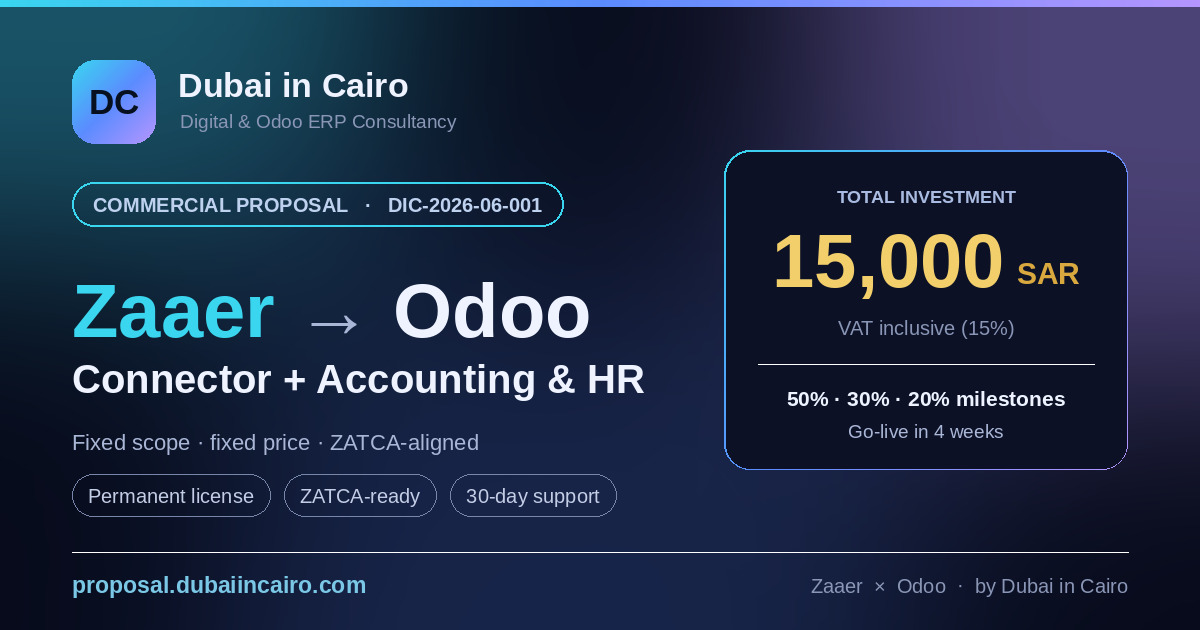
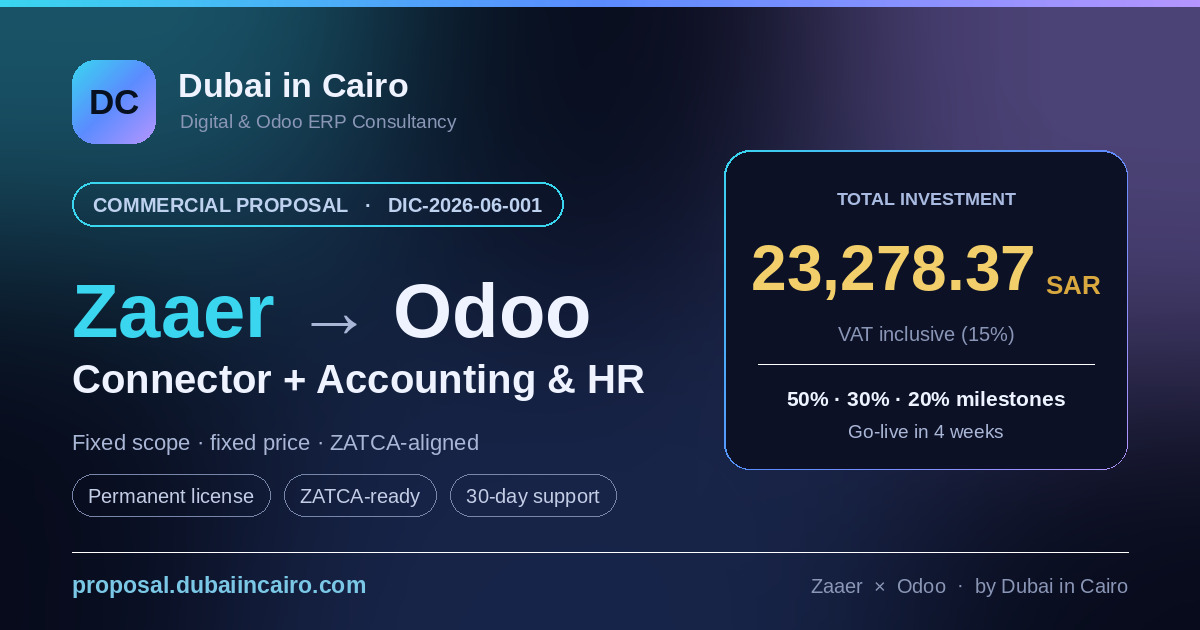
Update pricing: Odoo 15,778.37 + integration 7,500 = 23,278.37 SAR (VAT incl.)
- Restructure the price card into two line items: Odoo implementation &
  training (15,778.37) and Zaaer-Odoo integration for all branches (7,500.00).
- New VAT-inclusive total 23,278.37 SAR; net 20,242.06; VAT (15%) 3,036.31.
- Milestones 50/30/20 -> 11,639.19 / 6,983.51 / 4,655.67 (sum to total).
- Update hero summary, acceptance meta, meta description + OG/Twitter tags,
  and regenerate the social card with the new total.

https://claude.ai/code/session_013jWkQUzJEXRKSH2HXtxYeR

Changed region(s): [[0.6167, 0.3619, 0.925, 0.4825], [0.6783, 0.5127, 0.8633, 0.5429], [0.6783, 0.3016, 0.8633, 0.3317]]

diff --git a/index.html b/index.html
@@ -4,7 +4,7 @@
 <meta charset="utf-8">
 <meta name="viewport" content="width=device-width, initial-scale=1">
 <title>Proposal DIC-2026-06-001 — Dubai in Cairo</title>
-<meta name="description" id="m-desc" content="Commercial proposal DIC-2026-06-001 — Zaaer–Odoo Connector, ZATCA-aligned Accounting & HR implementation by Dubai in Cairo. Fixed scope, fixed price — 15,000 SAR (VAT inclusive).">
+<meta name="description" id="m-desc" content="Commercial proposal DIC-2026-06-001 — Zaaer–Odoo Connector, ZATCA-aligned Accounting & HR implementation by Dubai in Cairo. Fixed scope, fixed price — 23,278.37 SAR (VAT inclusive).">
 <meta name="theme-color" content="#070b1c">
 <link rel="canonical" href="https://proposal.dubaiincairo.com/">
 <link rel="icon" type="image/svg+xml" href="/favicon.svg">
@@ -13,16 +13,16 @@
 <meta property="og:locale" content="en_US">
 <meta property="og:url" content="https://proposal.dubaiincairo.com/">
 <meta property="og:title" id="m-ogtitle" content="Proposal DIC-2026-06-001 — Dubai in Cairo">
-<meta property="og:description" id="m-ogdesc" content="Zaaer–Odoo Connector, ZATCA-aligned Accounting & HR — fixed scope, fixed price, 15,000 SAR (VAT inclusive).">
+<meta property="og:description" id="m-ogdesc" content="Zaaer–Odoo Connector, ZATCA-aligned Accounting & HR — fixed scope, fixed price, 23,278.37 SAR (VAT inclusive).">
 <meta property="og:image" id="m-ogimg" content="https://proposal.dubaiincairo.com/og-image.jpg">
 <meta property="og:image:secure_url" id="m-ogimg2" content="https://proposal.dubaiincairo.com/og-image.jpg">
 <meta property="og:image:type" content="image/jpeg">
 <meta property="og:image:width" content="1200">
 <meta property="og:image:height" content="630">
-<meta property="og:image:alt" content="Dubai in Cairo — Proposal DIC-2026-06-001: Zaaer–Odoo Connector, Accounting & HR, 15,000 SAR VAT inclusive">
+<meta property="og:image:alt" content="Dubai in Cairo — Proposal DIC-2026-06-001: Zaaer–Odoo Connector, Accounting & HR, 23,278.37 SAR VAT inclusive">
 <meta name="twitter:card" content="summary_large_image">
 <meta name="twitter:title" id="m-twtitle" content="Proposal DIC-2026-06-001 — Dubai in Cairo">
-<meta name="twitter:description" id="m-twdesc" content="Zaaer–Odoo Connector, ZATCA-aligned Accounting & HR — fixed scope, fixed price, 15,000 SAR (VAT inclusive).">
+<meta name="twitter:description" id="m-twdesc" content="Zaaer–Odoo Connector, ZATCA-aligned Accounting & HR — fixed scope, fixed price, 23,278.37 SAR (VAT inclusive).">
 <meta name="twitter:image" id="m-twimg" content="https://proposal.dubaiincairo.com/og-image.jpg">
 <meta name="twitter:image:alt" content="Dubai in Cairo — Proposal DIC-2026-06-001">
 <style>
@@ -340,7 +340,7 @@ body.rv .milestones .ms.reveal:nth-child(3){transition-delay:.2s}
     <div class="srow"><span>Valid until</span><span class="v-valid">01 July 2026</span></div>
     <div class="srow"><span>Prepared for</span><span class="ar v-client">شركة أجنحة المشاعر المحدودة</span></div>
     <div class="srow"><span>Prepared by</span><span><span class="v-brandname">Dubai in Cairo</span> LLC</span></div>
-    <div class="invest"><span class="amt gold-text"><span class="v-total-num">15,000.00</span> <span class="v-cur">SAR</span></span><small>Fixed total<br>VAT inclusive</small></div>
+    <div class="invest"><span class="amt gold-text"><span class="v-total-num">23,278.37</span> <span class="v-cur">SAR</span></span><small>Fixed total<br>VAT inclusive</small></div>
   </aside>
 </div></header>
 
@@ -381,24 +381,26 @@ body.rv .milestones .ms.reveal:nth-child(3){transition-delay:.2s}
 </div></section>
 
 <section class="sec" id="pricing"><div class="wrap">
-  <div class="sec-head reveal"><div class="sec-eyebrow" id="f-price-eyebrow">Investment</div><h2 id="f-price-title">One fixed price. No surprises.</h2><p id="f-price-desc">A single, all-inclusive figure for the full scope above — payable across three simple milestones.</p></div>
+  <div class="sec-head reveal"><div class="sec-eyebrow" id="f-price-eyebrow">Investment</div><h2 id="f-price-title">One fixed price. No surprises.</h2><p id="f-price-desc">Odoo implementation &amp; training, plus the Zaaer–Odoo connector for all branches — one VAT-inclusive total, payable across three milestones.</p></div>
   <div class="price-zone">
     <div class="price-wrap reveal"><div class="price-card">
       <div class="label" id="f-price-totallabel">Total Investment</div>
-      <div class="big gold-text"><span class="v-total-num">15,000.00</span> <span class="v-cur" style="font-size:.42em;letter-spacing:0">SAR</span></div>
+      <div class="big gold-text"><span class="v-total-num">23,278.37</span> <span class="v-cur" style="font-size:.42em;letter-spacing:0">SAR</span></div>
       <div class="vatnote" id="f-price-vatnote">Fixed total — VAT inclusive (15%)</div>
       <div class="bd">
-        <div class="brow"><span id="f-bd-netlabel">Net amount</span><span class="bd-net">13,043.48 SAR</span></div>
-        <div class="brow"><span id="f-bd-vatlabel">VAT (15%)</span><span class="bd-vat">1,956.52 SAR</span></div>
-        <div class="brow tot"><span id="f-bd-totallabel">Total (VAT incl.)</span><span class="bd-total gold-text">15,000.00 SAR</span></div>
+        <div class="brow"><span>Odoo implementation &amp; training</span><span>15,778.37 SAR</span></div>
+        <div class="brow"><span>Zaaer–Odoo integration <span style="opacity:.65">· all branches</span></span><span>7,500.00 SAR</span></div>
+        <div class="brow" style="border-top:1px solid rgba(255,255,255,.12);margin-top:5px;padding-top:13px"><span id="f-bd-netlabel">Net amount</span><span class="bd-net">20,242.06 SAR</span></div>
+        <div class="brow"><span id="f-bd-vatlabel">VAT (15%)</span><span class="bd-vat">3,036.31 SAR</span></div>
+        <div class="brow tot"><span id="f-bd-totallabel">Total (VAT incl.)</span><span class="bd-total gold-text">23,278.37 SAR</span></div>
       </div>
     </div></div>
     <div>
       <p class="pay-note reveal" id="f-pay-note">Payment is split across three milestones. The 30-day support period begins on the delivery date.</p>
       <div class="milestones" id="pay-list">
-        <div class="ms reveal"><div class="pct">50%</div><div class="mt"><div class="h"><strong>Advance</strong><span class="amt gold-text">7,500 SAR</span></div><p>On signing the proposal / issuing the purchase order.</p></div></div>
-        <div class="ms reveal"><div class="pct">30%</div><div class="mt"><div class="h"><strong>Pre-delivery</strong><span class="amt gold-text">4,500 SAR</span></div><p>One day before delivery, after confirming everything is complete and approved.</p></div></div>
-        <div class="ms reveal"><div class="pct">20%</div><div class="mt"><div class="h"><strong>On completion</strong><span class="amt gold-text">3,000 SAR</span></div><p>Within 7 days from the delivery date.</p></div></div>
+        <div class="ms reveal"><div class="pct">50%</div><div class="mt"><div class="h"><strong>Advance</strong><span class="amt gold-text">11,639.19 SAR</span></div><p>On signing the proposal / issuing the purchase order.</p></div></div>
+        <div class="ms reveal"><div class="pct">30%</div><div class="mt"><div class="h"><strong>Pre-delivery</strong><span class="amt gold-text">6,983.51 SAR</span></div><p>One day before delivery, after confirming everything is complete and approved.</p></div></div>
+        <div class="ms reveal"><div class="pct">20%</div><div class="mt"><div class="h"><strong>On completion</strong><span class="amt gold-text">4,655.67 SAR</span></div><p>Within 7 days from the delivery date.</p></div></div>
       </div>
     </div>
   </div>
@@ -431,7 +433,7 @@ body.rv .milestones .ms.reveal:nth-child(3){transition-delay:.2s}
 <section class="sec" id="accept"><div class="wrap"><div class="accept reveal">
   <h2 id="f-accept-title">Ready to get started?</h2>
   <p id="f-accept-body">Accept this proposal and we'll send the PO and payment instructions for the 50% advance so we can begin discovery.</p>
-  <p class="meta" id="f-accept-meta">Prepared for <span class="ar v-client">شركة أجنحة المشاعر المحدودة</span> · Proposal <span class="v-propno">DIC-2026-06-001</span> · <span class="v-total-num">15,000.00</span> <span class="v-cur">SAR</span> (VAT inclusive)</p>
+  <p class="meta" id="f-accept-meta">Prepared for <span class="ar v-client">شركة أجنحة المشاعر المحدودة</span> · Proposal <span class="v-propno">DIC-2026-06-001</span> · <span class="v-total-num">23,278.37</span> <span class="v-cur">SAR</span> (VAT inclusive)</p>
   <div class="aa"><a class="btn btn-gold v-cta-accept js-accept" href="mailto:info@dubaiincairo.com?subject=Proposal%20Acceptance%20-%20DIC-2026-06-001">Accept Proposal</a><a class="btn btn-ghost js-ask v-ask" href="mailto:info@dubaiincairo.com?subject=Question%20-%20DIC-2026-06-001">Ask a question</a></div>
 </div></div></section>
 
